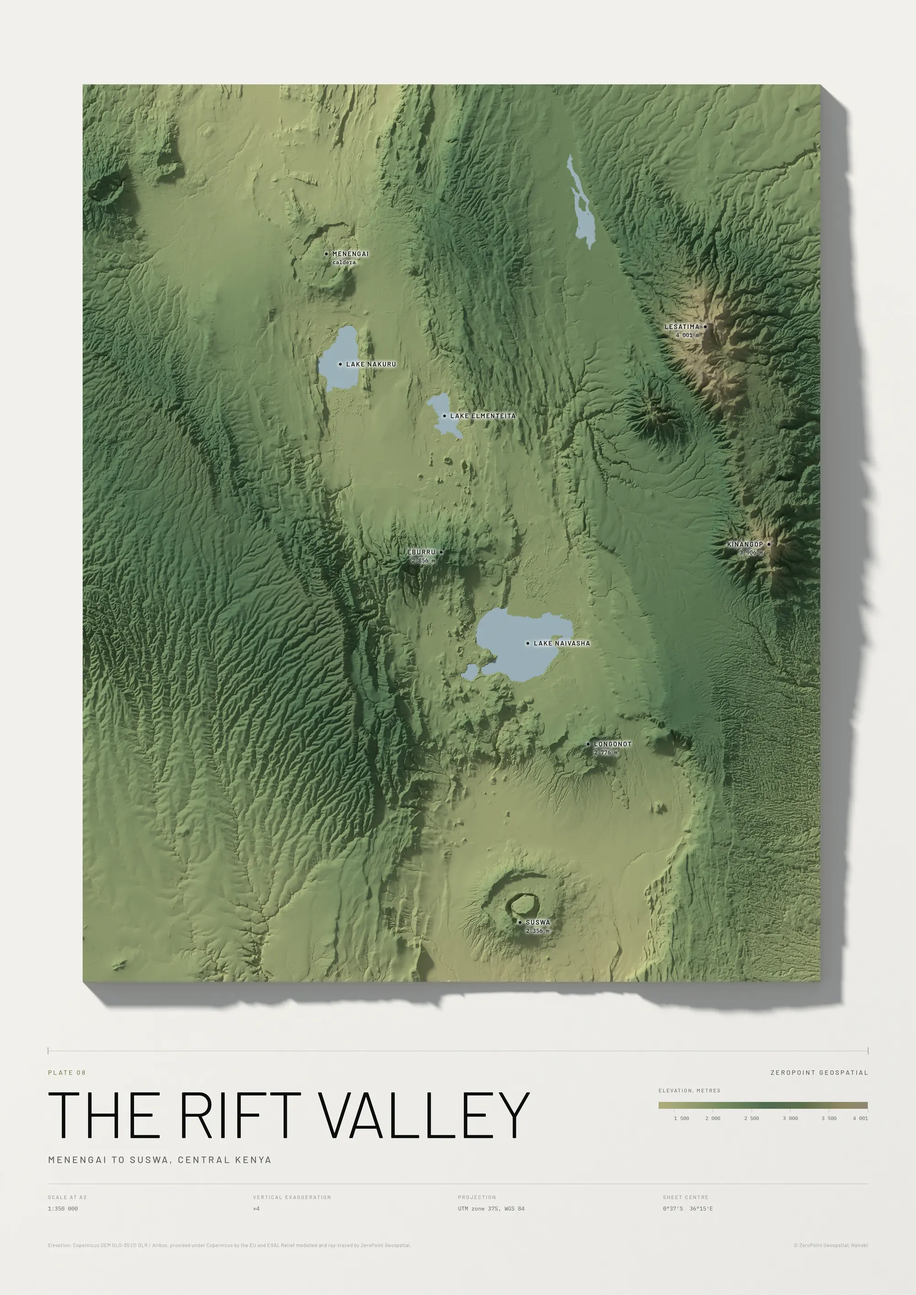
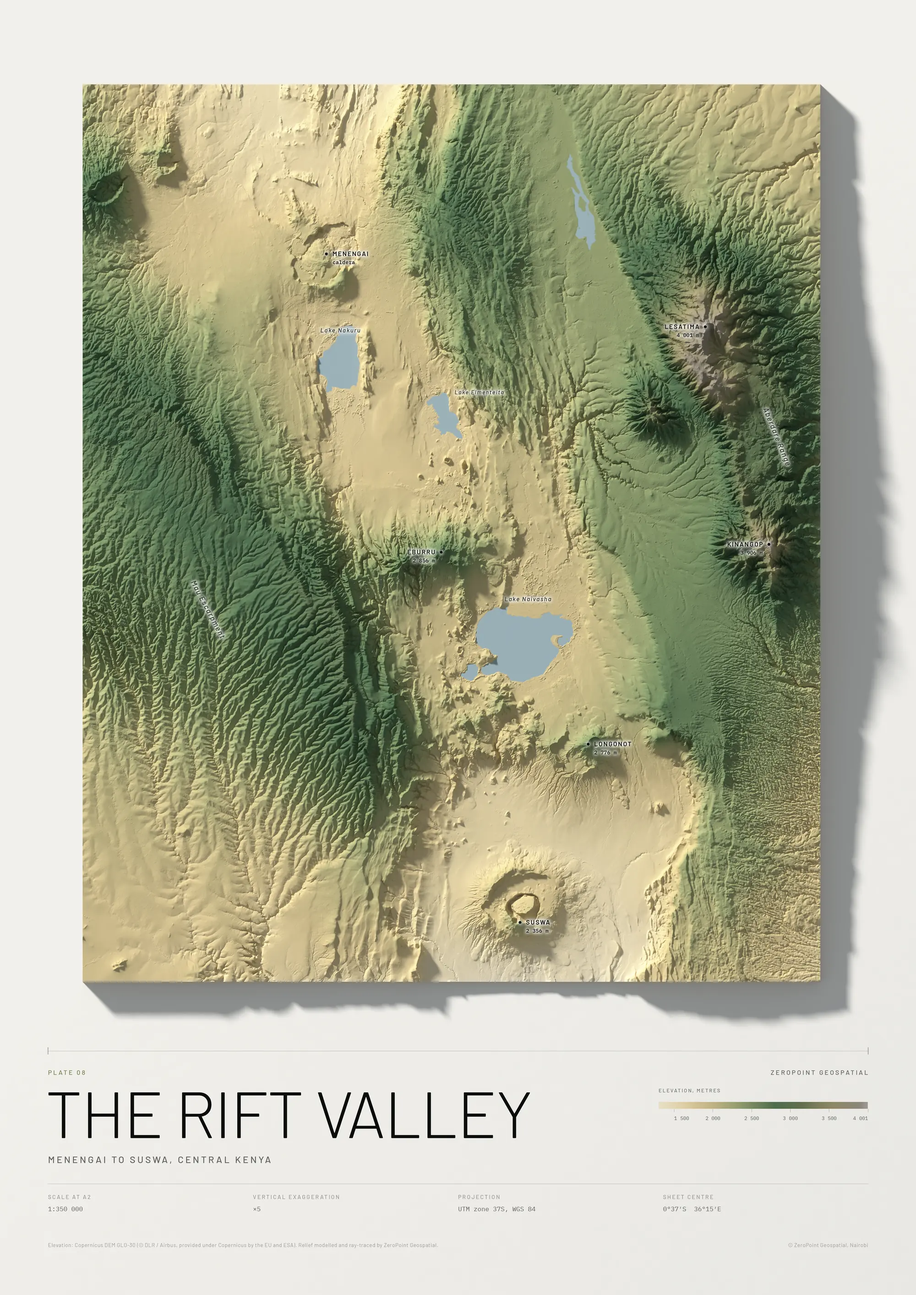
All 23 prints live: final previews from the 300 dpi masters
Previews, share cards and project crops rebuilt from the finished masters;
East Africa and the four county plates are published; contact sheet
refreshed.

Claude-Session: https://claude.ai/code/session_01JE2r52CKzidB17Lm19sXw4

diff --git a/_prints/county-kajiado.md b/_prints/county-kajiado.md
@@ -1,5 +1,4 @@
 ---
-published: false
 slug: county-kajiado
 order: 24
 plate: "034"

diff --git a/_prints/county-kiambu.md b/_prints/county-kiambu.md
@@ -1,5 +1,4 @@
 ---
-published: false
 slug: county-kiambu
 order: 21
 plate: "022"

diff --git a/_prints/county-nakuru.md b/_prints/county-nakuru.md
@@ -1,5 +1,4 @@
 ---
-published: false
 slug: county-nakuru
 order: 22
 plate: "032"

diff --git a/_prints/county-nyeri.md b/_prints/county-nyeri.md
@@ -1,5 +1,4 @@
 ---
-published: false
 slug: county-nyeri
 order: 23
 plate: "019"

diff --git a/_prints/east-africa.md b/_prints/east-africa.md
@@ -1,5 +1,4 @@
 ---
-published: false
 slug: east-africa
 order: 13
 plate: "14"
